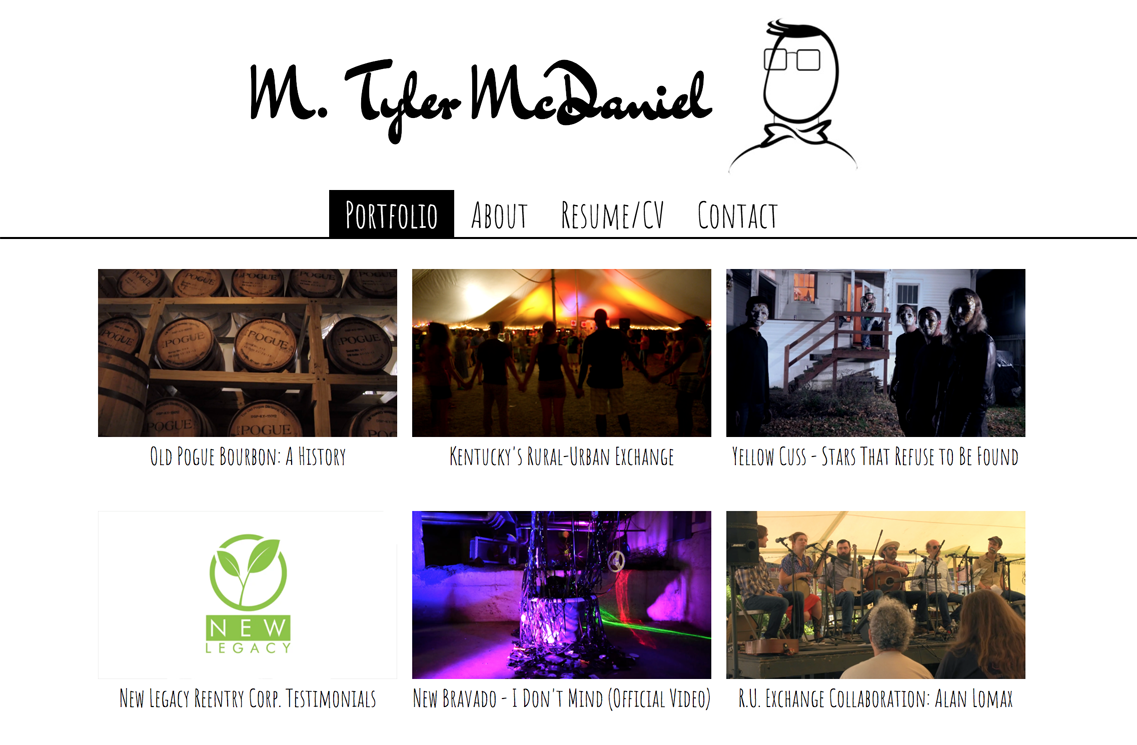
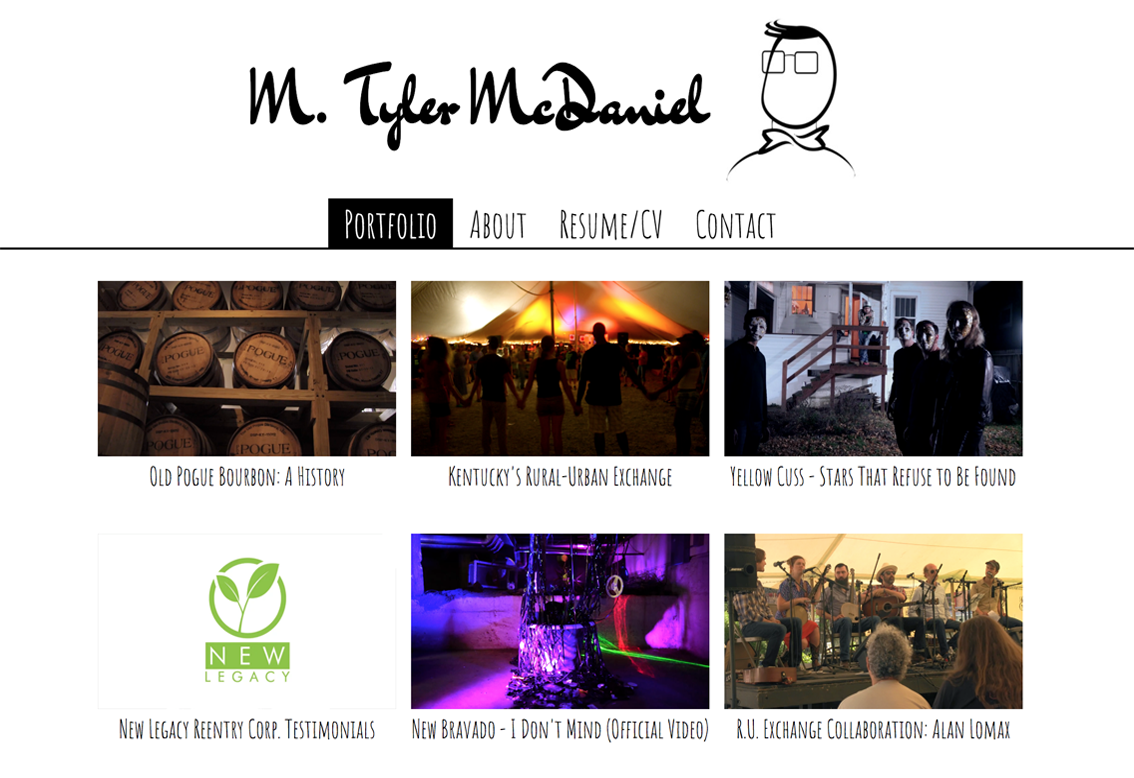
updating position and size for portfolio items

diff --git a/portfolio.html b/portfolio.html
@@ -31,18 +31,24 @@
             </nav>
         </header>
 
-        <div class="container d-flex align-items-center">
+        <div class="container d-flex align-items-center justify-content-around">
+            <div class="row justify-content-around">
 
-            <div>
-                <img src="/images/scScreeShot.png" alt="Screen shot of Samantha Chadwick website" class="portfolio-image">
-                <caption>A portfolio website for a wardrobe stylist.</caption>
+                <div class="col- text-center portfolio-item m-2">
+                    <a href="https://timpinkerton.github.io/samantha-chadwick/" target="_blank">
+                        <img src="/images/scScreeShot.png" alt="Screen shot of Samantha Chadwick website" class="portfolio-image">
+                    </a>
+                    <p>A portfolio website for a wardrobe stylist that showcases images using a scrolling gallery.</p>
+                </div>
+
+                <div class="col- text-center portfolio-item m-2">
+                    <a href="http://www.mtmcdaniel.com/" target="_blank">
+                        <img src="/images/mtmScreenShot.png" alt="Screen shot of M. Tyler McDaniel website" class="portfolio-image">
+                    </a>
+                    <p>A porfolio website for a videographer that plays videos in a pop up modal.</p>
+                </div>
+
             </div>
-
-            <div>
-                <img src="/images/mtmScreenShot.png" alt="Screen shot of M. Tyler McDaniel website" class="portfolio-image">
-                <caption>A porfolio website for a videographer.</caption>
-            </div>
-
         </div>
 
         <footer class="footer">

diff --git a/css/customStyle.css b/css/customStyle.css
@@ -99,8 +99,13 @@ i {
 PORTFOLIO PAGE STYLING
 ***********************************************************/
 
+/* width of div holding the image and caption */
+.portfolio-item {
+    max-width: 300px;
+}
+
 .portfolio-image {
-    height: 100px;
+    max-width: 100%;
 }
 
 
